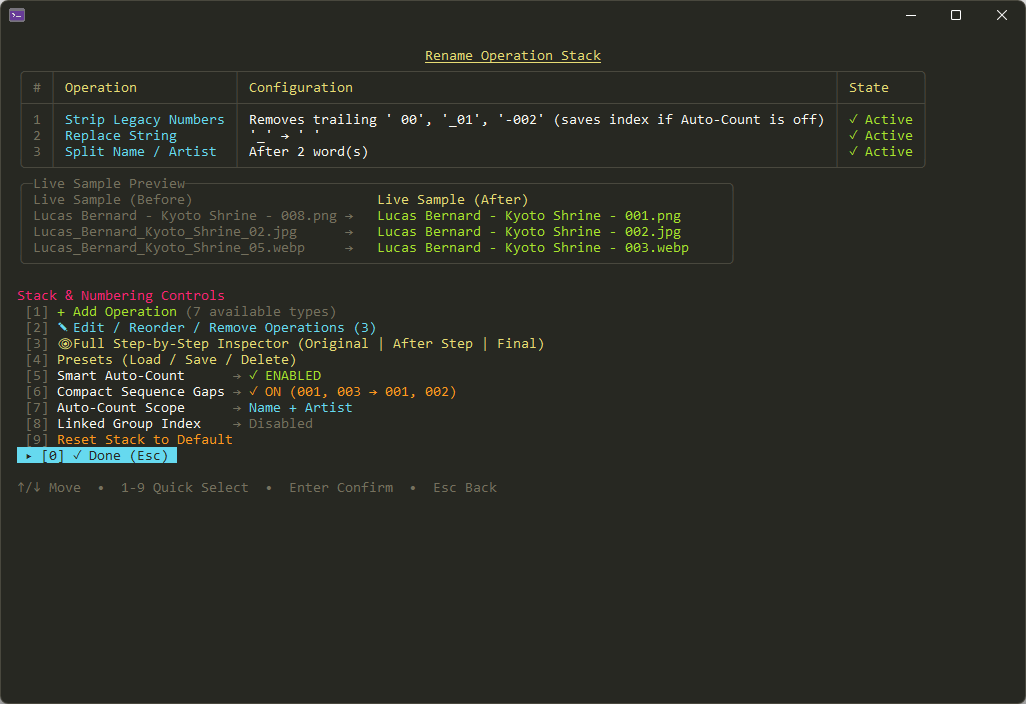
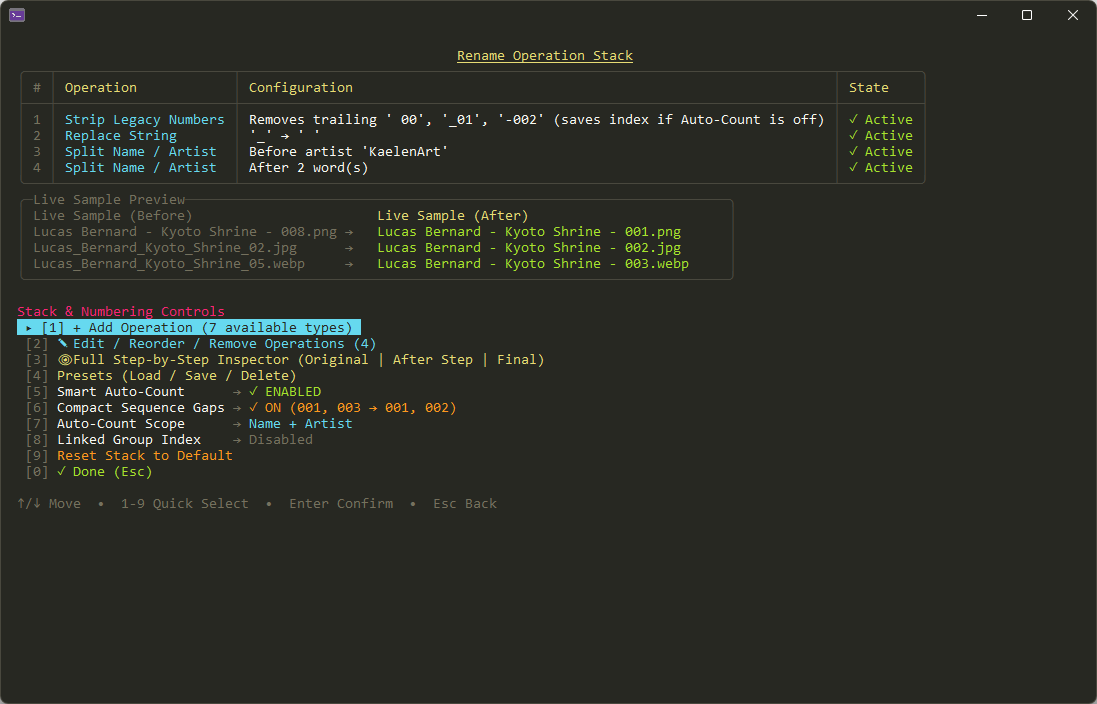
Chore: Retook screenshot so they art the same size and add a html script to view the diagram

diff --git a/docs/diagram.html b/docs/diagram.html
@@ -1,0 +1,20 @@
+<!DOCTYPE html>
+<html lang="en">
+<head>
+  <meta charset="UTF-8" />
+  <title>MediaRenamer - Architecture Sequence Diagram</title>
+  <style>
+    html, body { margin: 0; width: 100%; height: 100%; background: #0d1117; overflow: hidden; }
+    object { width: 100%; height: 100%; }
+  </style>
+  <script src="https://cdn.jsdelivr.net/npm/svg-pan-zoom@3.6.1/dist/svg-pan-zoom.min.js"></script>
+</head>
+<body>
+  <object id="diagram" type="image/svg+xml" data="diagram.svg"></object>
+  <script>
+    document.getElementById('diagram').addEventListener('load', function () {
+      svgPanZoom(this, { zoomEnabled: true, controlIconsEnabled: true, fit: true, center: true, maxZoom: 10 });
+    });
+  </script>
+</body>
+</html>
